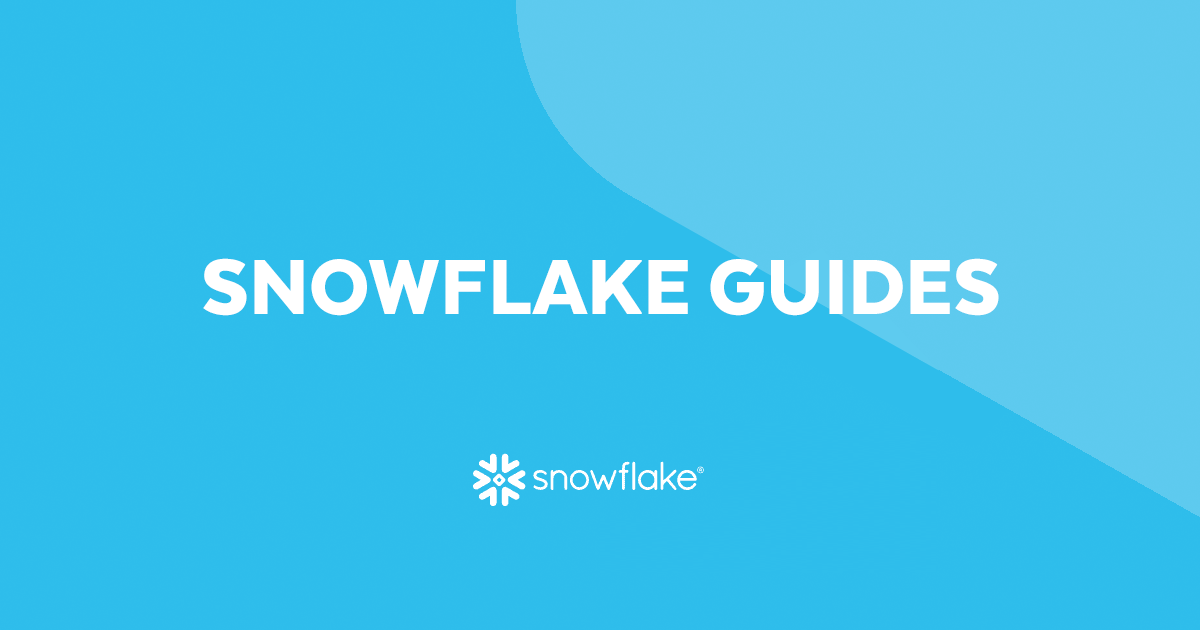
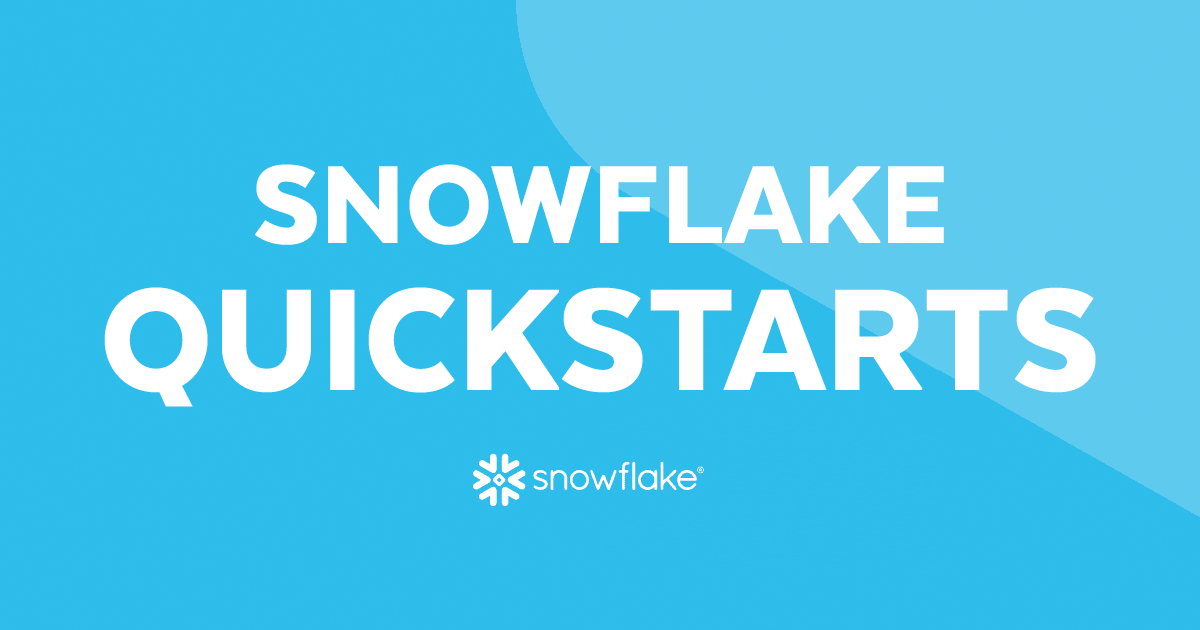
quickstart updates

Changed region(s): [[0.0617, 0.2413, 0.925, 0.6635]]

diff --git a/site/app/views/default/index.html b/site/app/views/default/index.html
@@ -76,7 +76,7 @@ subject to an additional IP rights grant found at http://polymer.github.io/PATEN
   <meta name="og:title" property="og:title" content="{{view.title}}" />
   <meta name="og:description" property="og:description" content="{{view.description}}" />
   <meta name="og:url" property="og:url" content="{{canonicalViewUrl(view)}}" />
-  <meta name="og:site_name" property="og:site_name" content="Snowflake Guides" />
+  <meta name="og:site_name" property="og:site_name" content="Snowflake Quickstarts" />
   <meta name="og:determiner" property="og:determiner" content="" />
   <meta name="og:locale" property="og:locale" content="en_US" />
   <meta name="og:image" property="og:image" content="/images/og-image.png" />
@@ -84,7 +84,7 @@ subject to an additional IP rights grant found at http://polymer.github.io/PATEN
   <meta name="og:image:type" property="og:image:type" content="image/png" />
   <meta name="og:image:width" property="og:image:width" content="1200" />
   <meta name="og:image:height" property="og:image:height" content="1200" />
-  <meta name="og:image:alt" property="og:image:alt" content="Snowflake Guides" />
+  <meta name="og:image:alt" property="og:image:alt" content="Snowflake Quickstarts" />
 
   <meta name="twitter:card" property="twitter:card" content="summary_large_image" />
   <meta name="twitter:title" property="twitter:title" content="{{view.title}}" />
@@ -122,7 +122,7 @@ subject to an additional IP rights grant found at http://polymer.github.io/PATEN
           <p class="banner-info">
             Follow along with our tutorials to get you up and running with the Snowflake Data Cloud.
             <br>
-            <a href="https://github.com/Snowflake-Labs/devlabs" target="_blank">Snowflake Guides on GitHub</a> 
+            <a href="https://github.com/Snowflake-Labs/devlabs" target="_blank">Snowflake Quickstarts on GitHub</a> 
             <a href="https://www.snowflake.com/virtual-hands-on-lab/?topic=data-applications" target="_blank">Virtual Hands-on Labs</a>
             <a href="https://trial.snowflake.com" target="_blank">Free Trial</a>
           </p>
